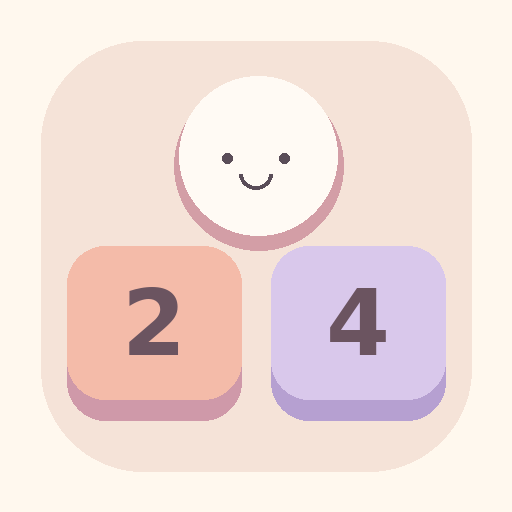
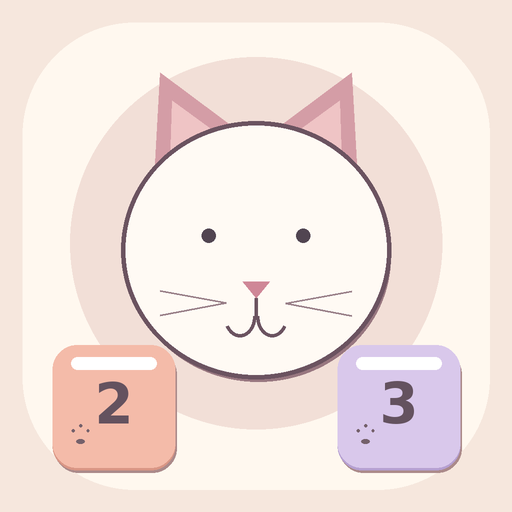
Rename game Little Head and add cat themed ceiling lane

diff --git a/app/game.tsx b/app/game.tsx
@@ -28,9 +28,9 @@ const center = (p: Pickup) => ({ x: p.col * CELL + 30, y: 43 + p.row * CELL });
 
 function initial(h: number, best: number): Game {
   return { h, best, round: 1, count: 1, launchX: W / 2, id: 5,
-    bricks: [{ id: 1, col: 1, row: 0, hp: 1, color: 0, pulse: 0 },
-      { id: 2, col: 3, row: 0, hp: 2, color: 1, pulse: 0 },
-      { id: 3, col: 5, row: 0, hp: 1, color: 2, pulse: 0 }],
+    bricks: [{ id: 1, col: 1, row: 1, hp: 1, color: 0, pulse: 0 },
+      { id: 2, col: 3, row: 1, hp: 2, color: 1, pulse: 0 },
+      { id: 3, col: 5, row: 1, hp: 1, color: 2, pulse: 0 }],
     pickups: [{ id: 4, col: 4, row: 1 }], balls: [], particles: [],
     phase: 'ready', paused: false, aiming: false, aimX: W / 2 + 70, aimY: h / 2,
     intro: true, launched: 0, shotCount: 1, clock: 0, dx: 0, dy: -1, nextX: null, fast: false };
@@ -43,11 +43,13 @@ function load(h: number): Game {
     const saved = JSON.parse(localStorage.getItem(SAVE_KEY) || 'null');
     if (saved && Number.isInteger(saved.round) && saved.round > 0 && Number.isInteger(saved.count) && saved.count > 0 &&
       Array.isArray(saved.bricks) && Array.isArray(saved.pickups)) {
+      // Older saves used row zero. Preserve their layout while opening the ceiling lane.
+      const shift = saved.bricks.some((b: Brick) => b.row === 0) || saved.pickups.some((p: Pickup) => p.row === 0) ? 1 : 0;
       return { ...start, round: saved.round, count: Math.min(999, saved.count),
         phase: saved.phase === 'over' ? 'over' : 'ready',
         launchX: Math.max(10, Math.min(W - 10, saved.launchX || W / 2)),
-        bricks: saved.bricks.filter((b: Brick) => b.hp > 0 && b.col >= 0 && b.col < 7 && b.row >= 0 && b.row < 20),
-        pickups: saved.pickups.filter((p: Pickup) => p.col >= 0 && p.col < 7 && p.row >= 0 && p.row < 20),
+        bricks: saved.bricks.filter((b: Brick) => b.hp > 0 && b.col >= 0 && b.col < 7 && b.row >= 0 && b.row < 20).map((b: Brick) => ({ ...b, row: b.row + shift })),
+        pickups: saved.pickups.filter((p: Pickup) => p.col >= 0 && p.col < 7 && p.row >= 0 && p.row < 20).map((p: Pickup) => ({ ...p, row: p.row + shift })),
         id: saved.id || 5, intro: false };
     }
   } catch {}
@@ -102,11 +104,11 @@ function nextRound(g: Game) {
   const used = new Set<number>();
   const target = Math.min(5, 2 + Math.floor(Math.random() * 3) + (g.round > 8 ? 1 : 0));
   while (used.size < target) used.add(Math.floor(Math.random() * 7));
-  for (const col of used) g.bricks.push({ id: g.id++, col, row: 0,
+  for (const col of used) g.bricks.push({ id: g.id++, col, row: 1,
     hp: Math.max(1, Math.round(g.round * (.72 + Math.random() * .72))),
     color: (col + g.round) % PALETTE.length, pulse: 0 });
   const free = [0, 1, 2, 3, 4, 5, 6].filter((c) => !used.has(c));
-  if (free.length) g.pickups.push({ id: g.id++, col: free[Math.floor(Math.random() * free.length)], row: 0 });
+  if (free.length) g.pickups.push({ id: g.id++, col: free[Math.floor(Math.random() * free.length)], row: 1 });
   g.phase = g.bricks.some((b) => rect(b).y + rect(b).h >= floor(g) - 12) ? 'over' : 'ready';
   g.launchX = g.nextX ?? g.launchX;
   g.aimX = Math.min(W, g.launchX + 70); g.aimY = floor(g) - 240;
@@ -164,10 +166,25 @@ function step(g: Game, dt: number, tone: (kind: 'hit' | 'pop' | 'pickup') => voi
   if (g.launched >= g.shotCount && g.balls.length === 0) nextRound(g);
 }
 function drawBall(ctx: CanvasRenderingContext2D, x: number, y: number, r: number) {
-  ctx.fillStyle = '#bc9c9c44'; ctx.beginPath(); ctx.arc(x + 1, y + 2, r + 1.5, 0, Math.PI * 2); ctx.fill();
-  ctx.fillStyle = '#d39ea6'; ctx.beginPath(); ctx.arc(x, y, r + 1, 0, Math.PI * 2); ctx.fill();
-  ctx.fillStyle = '#fffaf4'; ctx.beginPath(); ctx.arc(x, y - 1, r - .4, 0, Math.PI * 2); ctx.fill();
-  ctx.fillStyle = '#5a4d58'; ctx.beginPath(); ctx.arc(x - 2, y - 1, .8, 0, Math.PI * 2); ctx.arc(x + 2, y - 1, .8, 0, Math.PI * 2); ctx.fill();
+  ctx.save(); ctx.translate(x, y);
+  ctx.fillStyle = '#bc9c9c44'; ctx.beginPath(); ctx.arc(1, 2, r + 1.5, 0, Math.PI * 2); ctx.fill();
+  ctx.fillStyle = '#d39ea6';
+  for (const side of [-1, 1]) { ctx.beginPath(); ctx.moveTo(side * r * .32, -r * .57);
+    ctx.lineTo(side * r * .83, -r * 1.42); ctx.lineTo(side * r * .95, -r * .1); ctx.closePath(); ctx.fill(); }
+  ctx.beginPath(); ctx.arc(0, 0, r + .7, 0, Math.PI * 2); ctx.fill();
+  ctx.fillStyle = '#fffaf4'; ctx.beginPath(); ctx.arc(0, -.4, r - .45, 0, Math.PI * 2); ctx.fill();
+  ctx.fillStyle = '#eab7b7';
+  for (const side of [-1, 1]) { ctx.beginPath(); ctx.moveTo(side * r * .53, -r * .66);
+    ctx.lineTo(side * r * .79, -r * 1.15); ctx.lineTo(side * r * .78, -r * .28); ctx.closePath(); ctx.fill(); }
+  ctx.fillStyle = '#5a4d58'; ctx.beginPath(); ctx.arc(-r * .31, -r * .1, .8, 0, Math.PI * 2);
+  ctx.arc(r * .31, -r * .1, .8, 0, Math.PI * 2); ctx.fill();
+  ctx.fillStyle = '#d58f9b'; ctx.beginPath(); ctx.moveTo(-1.1, r * .25); ctx.lineTo(1.1, r * .25);
+  ctx.lineTo(0, r * .48); ctx.closePath(); ctx.fill();
+  ctx.strokeStyle = '#866e76'; ctx.lineWidth = .65; ctx.lineCap = 'round';
+  ctx.beginPath(); ctx.moveTo(0, r * .47); ctx.lineTo(0, r * .63);
+  ctx.moveTo(0, r * .61); ctx.quadraticCurveTo(-1.1, r * .8, -2.1, r * .57);
+  ctx.moveTo(0, r * .61); ctx.quadraticCurveTo(1.1, r * .8, 2.1, r * .57); ctx.stroke();
+  ctx.restore();
 }
 type AimHit = { distance: number; nx: number; ny: number; catchesBall: boolean };
 function firstAimHit(g: Game, x: number, y: number, dx: number, dy: number): AimHit {
@@ -236,6 +253,12 @@ function draw(g: Game, ctx: CanvasRenderingContext2D, now: number) {
     ctx.fillStyle = edge; rounded(ctx, 0, 2, b.w, b.h - 1); ctx.fill();
     ctx.fillStyle = fill; rounded(ctx, 0, 0, b.w, b.h - 3); ctx.fill();
     ctx.fillStyle = '#ffffff66'; rounded(ctx, 7, 6, b.w - 14, 7, 4); ctx.fill();
+    // A stitched paw keeps the numbered cushions cat themed without hiding the HP.
+    ctx.fillStyle = '#765d684f';
+    ctx.beginPath(); ctx.ellipse(11, b.h - 11, 3, 2.2, -.35, 0, Math.PI * 2);
+    ctx.arc(6.5, b.h - 16, 1.1, 0, Math.PI * 2);
+    ctx.arc(10, b.h - 18, 1.1, 0, Math.PI * 2);
+    ctx.arc(13.5, b.h - 16.5, 1.1, 0, Math.PI * 2); ctx.fill();
     ctx.fillStyle = '#5a4d58'; ctx.font = `800 ${brick.hp >= 100 ? 19 : brick.hp >= 10 ? 22 : 25}px ui-rounded, 'Trebuchet MS', sans-serif`;
     ctx.textAlign = 'center'; ctx.textBaseline = 'middle'; ctx.fillText(String(brick.hp), b.w / 2, b.h / 2 + 1);
     ctx.restore();
@@ -331,6 +354,10 @@ export default function GameScreen() {
         try {
           const last = JSON.parse(localStorage.getItem(UNDO_KEY) || 'null');
           if (last && Number.isInteger(last.round) && Array.isArray(last.bricks) && Array.isArray(last.pickups)) {
+            if (last.bricks.some((b: Brick) => b.row === 0) || last.pickups.some((p: Pickup) => p.row === 0)) {
+              last.bricks = last.bricks.map((b: Brick) => ({ ...b, row: b.row + 1 }));
+              last.pickups = last.pickups.map((p: Pickup) => ({ ...p, row: p.row + 1 }));
+            }
             undoRef.current = last; setCanUndo(true);
           }
         } catch {}
@@ -408,7 +435,7 @@ export default function GameScreen() {
     g.paused = !g.paused; g.aiming = false; sync(); };
   const speed = () => { const g = gameRef.current; if (g) { g.fast = !g.fast; sync(); } };
   const sound = () => { mutedRef.current = !mutedRef.current; setMuted(mutedRef.current); };
-  return <main className="game-screen"><section className="game-shell" aria-label="Little Bounce game">
+  return <main className="game-screen"><section className="game-shell" aria-label="Little Head game">
     <header className="score-hud">
       <Button aria-label={hud.paused ? 'Resume game' : 'Pause game'} className="hud-icon pause-button" variant="ghost" size="icon-lg" onClick={pause} disabled={hud.phase === 'over'}>{hud.paused ? <Play /> : <Pause />}</Button>
       <span className="hud-label">ROUND</span><strong className="round-score">{hud.round}</strong>
@@ -416,13 +443,13 @@ export default function GameScreen() {
       <Button aria-label="Undo last shot" className="undo-button" variant="ghost" size="sm" onClick={undo} disabled={!canUndo}><Undo2 /> Undo</Button>
     </header>
     <div className="game-board">
-      <canvas ref={canvasRef} className="play-canvas" aria-label={`Round ${hud.round}, ${hud.count} balls. Drag to aim, then press Shoot to launch.`}
+      <canvas ref={canvasRef} className="play-canvas" aria-label={`Round ${hud.round}, ${hud.count} cat heads. Drag to aim, then press Shoot to launch.`}
         onPointerDown={down} onPointerMove={move} onPointerUp={up} onPointerCancel={() => { if (gameRef.current) gameRef.current.aiming = false; }} />
       {hud.phase === 'firing' && <Button className="speed-button" variant="secondary" size="sm" onClick={speed}><FastForward /> {hud.fast ? 'Normal' : 'Speed up'}</Button>}
       {(hud.paused || hud.phase === 'over') && <div className="game-overlay" role="dialog" aria-modal="true" aria-label={hud.phase === 'over' ? 'Game over' : 'Paused'}>
         <div className="overlay-card"><span className="overlay-ornament">✦</span>
-          <h2>{hud.phase === 'over' ? 'one more bounce?' : 'taking a breather?'}</h2>
-          <p>{hud.phase === 'over' ? `You reached round ${hud.round}. Nice bouncing!` : 'Your little ball will wait right here.'}</p>
+          <h2>{hud.phase === 'over' ? 'one more pounce?' : 'cat nap?'}</h2>
+          <p>{hud.phase === 'over' ? `You reached round ${hud.round}. Purrfectly played!` : 'Your little cats will wait right here.'}</p>
           <div className="overlay-actions">
             {hud.phase !== 'over' && <Button className="primary-action" onClick={pause}><Play /> Keep playing</Button>}
             <Button className={hud.phase === 'over' ? 'primary-action' : 'secondary-action'} variant={hud.phase === 'over' ? 'default' : 'outline'} onClick={restart}><RotateCcw /> Play again</Button>
@@ -438,8 +465,8 @@ export default function GameScreen() {
     {help && <div className="help-scrim" role="dialog" aria-modal="true" aria-label="How to play"><div className="help-card">
       <Button className="close-help" variant="ghost" size="icon" aria-label="Close help" onClick={() => setHelp(false)}><X /></Button>
       <span className="help-symbol">✳</span><h2>How to play</h2>
-      <p>Drag on the board to aim. Release to set the angle, then press <strong>Shoot</strong> when you’re ready. Each little ball bounces off the walls and soft blocks. A block disappears when its number reaches zero.</p>
-      <p>Catch the green <strong>+1</strong> circles for more balls next turn. After every shot, the blocks move down one row. Keep them above the floor!</p>
+      <p>Drag on the board to aim. Release to set the angle, then press <strong>Shoot</strong> when you’re ready. Each little cat head bounces off the walls and numbered cushions. A cushion disappears when its number reaches zero.</p>
+      <p>Catch the green <strong>+1</strong> circles for more cats next turn. After every shot, the cushions move down one row. Use the open lane at the ceiling for extra ricochets!</p>
       <div className="install-tip"><strong>Keep it on your iPhone</strong><span>In Safari, tap Share, then <b>Add to Home Screen</b>.</span>
         {installPrompt && <Button className="install-action" size="sm" onClick={() => { void installPrompt.prompt(); setInstallPrompt(null); }}>Install app</Button>}
       </div>

diff --git a/app/layout.tsx b/app/layout.tsx
@@ -2,17 +2,17 @@ import type { Metadata, Viewport } from 'next';
 import './globals.css';
 
 export const metadata: Metadata = {
-  metadataBase: new URL('https://little-bounce-pocket-game.creamy-harp-0162.chatgpt.site'),
-  title: 'Little Bounce',
-  description: 'A cozy ball bouncing game for your pocket.',
+  metadataBase: new URL('https://egosashimi.github.io/little-bounce/'),
+  title: 'Little Head',
+  description: 'A cozy cat ricochet game for your pocket.',
   manifest: '/manifest.webmanifest',
   icons: {
     icon: [{ url: '/favicon.svg', type: 'image/svg+xml' }, { url: '/icon-192.png', sizes: '192x192', type: 'image/png' }],
     apple: [{ url: '/apple-touch-icon.png', sizes: '180x180', type: 'image/png' }],
   },
-  appleWebApp: { capable: true, title: 'Little Bounce', statusBarStyle: 'default' },
-  openGraph: { title: 'Little Bounce', description: 'A cozy pocket game of bouncing balls and numbered blocks.', images: ['/og.png'] },
-  twitter: { card: 'summary_large_image', title: 'Little Bounce', description: 'A cozy pocket game of bouncing balls and numbered blocks.', images: ['/og.png'] },
+  appleWebApp: { capable: true, title: 'Little Head', statusBarStyle: 'default' },
+  openGraph: { title: 'Little Head', description: 'A cozy cat ricochet game for your pocket.', images: ['/og.png'] },
+  twitter: { card: 'summary_large_image', title: 'Little Head', description: 'A cozy cat ricochet game for your pocket.', images: ['/og.png'] },
 };
 
 export const viewport: Viewport = { width: 'device-width', initialScale: 1, themeColor: '#fff8ee' };

diff --git a/index.html b/index.html
@@ -5,17 +5,17 @@
     <meta name="viewport" content="width=device-width, initial-scale=1, viewport-fit=cover" />
     <meta name="theme-color" content="#fff8ee" />
     <meta name="apple-mobile-web-app-capable" content="yes" />
-    <meta name="apple-mobile-web-app-title" content="Little Bounce" />
+    <meta name="apple-mobile-web-app-title" content="Little Head" />
     <meta name="apple-mobile-web-app-status-bar-style" content="default" />
-    <meta name="description" content="A cozy pocket game of bouncing balls and numbered blocks." />
-    <meta property="og:title" content="Little Bounce" />
-    <meta property="og:description" content="A cozy pocket game of bouncing balls and numbered blocks." />
+    <meta name="description" content="A cozy cat ricochet game for your pocket." />
+    <meta property="og:title" content="Little Head" />
+    <meta property="og:description" content="A cozy cat ricochet game for your pocket." />
     <meta property="og:image" content="https://egosashimi.github.io/little-bounce/og.png" />
     <meta property="og:type" content="website" />
     <link rel="manifest" href="./manifest.webmanifest" />
     <link rel="apple-touch-icon" href="./apple-touch-icon.png" />
     <link rel="icon" type="image/svg+xml" href="./favicon.svg" />
-    <title>Little Bounce</title>
+    <title>Little Head</title>
   </head>
   <body>
     <div id="root"></div>

diff --git a/public/sw.js b/public/sw.js
@@ -1,4 +1,4 @@
-const CACHE = 'little-bounce-v2';
+const CACHE = 'little-head-v1';
 const ROOT = new URL(self.registration.scope).pathname;
 const asset = (name) => new URL(name, self.registration.scope).toString();
 const CORE = [ROOT, asset('manifest.webmanifest'), asset('icon-192.png'), asset('icon-512.png'), asset('apple-touch-icon.png')];

diff --git a/README.md b/README.md
@@ -1,10 +1,10 @@
-# Little Bounce
+# Little Head
 
-A cozy, touch-first bouncing-block game for iPhone and desktop browsers. Drag to aim, press **Shoot** to launch, collect green `+1` orbs, and keep the blocks above the floor. The **Undo** button restores the board from before the last shot.
+A cozy, touch-first cat ricochet game for iPhone and desktop browsers. Drag to aim, press **Shoot** to launch, collect green `+1` orbs, and keep the numbered cushions above the floor. New rows leave an open lane beneath the ceiling for extra bounces. The **Undo** button restores the board from before the last shot.
 
 ## Play on iPhone
 
-Open [Little Bounce](https://egosashimi.github.io/little-bounce/) in Safari. To save it as an app, tap **Share → Add to Home Screen**. The game supports offline play after its files have cached.
+Open [Little Head](https://egosashimi.github.io/little-bounce/) in Safari. To save it as an app, tap **Share → Add to Home Screen**. The game supports offline play after its files have cached.
 
 ## Local development
 
